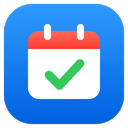
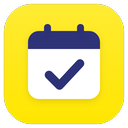
v1.2.0: "Colaborar" no rodapé com tela própria do QR Pix e ícone amarelo
- Remove a seção Colaborar da ajuda
- Link "♥ Colaborar" ao lado da versão abre a tela com QR e copia e cola
- Ícone novo em amarelo (#FFE600) com calendário azul-marinho

diff --git a/popup.html b/popup.html
@@ -221,7 +221,11 @@
   }
   .toast.show { transform: translate(-50%, 0); opacity: 1; }
 
-  footer { display: flex; justify-content: center; color: var(--text-3); font-size: 11px; padding: 0 0 14px; }
+  footer { display: flex; justify-content: center; align-items: center; gap: 6px; color: var(--text-3); font-size: 11px; padding: 0 0 14px; }
+  footer .sep { opacity: .6; }
+  .donate-link { font-size: 11px; color: var(--text-2); font-weight: 500; }
+  .donate-link:hover { color: var(--accent); }
+  .donate-link .heart { color: #ff2d55; }
 
   .collapsed { display: none; }
 
@@ -287,7 +291,7 @@
 
 <section class="sheet" id="help" aria-hidden="true" aria-label="Como usar">
   <div class="titlebar sheet-bar">
-    <div><button class="back" id="helpBack">‹ Voltar</button></div>
+    <div><button class="back" id="helpBack" data-close>‹ Voltar</button></div>
     <div class="title">Como usar</div>
     <div></div>
   </div>
@@ -335,8 +339,16 @@
     <div class="group prose">
       <p>Abra <b>Registro → Copiar técnico</b> e envie o texto em uma <a href="#" data-open="https://github.com/GustavoCavalheiro/vagas-full/issues">issue no GitHub</a>. Apague dados pessoais antes.</p>
     </div>
-
-    <div class="section-head"><span>Colaborar</span></div>
+  </div>
+</section>
+<section class="sheet" id="donate" aria-hidden="true" aria-label="Colaborar">
+  <div class="titlebar sheet-bar">
+    <div><button class="back" data-close>‹ Voltar</button></div>
+    <div class="title">Colaborar</div>
+    <div></div>
+  </div>
+  <div class="sheet-body">
+    <div class="section-head"><span>Pix</span></div>
     <div class="group">
       <div class="prose"><p>A Vagas Full é gratuita. Se ela te ajudou, considere apoiar o projeto com um Pix de qualquer valor.</p></div>
       <div class="qr-wrap"><div class="qr-box"><svg class="qr" role="img" aria-label="QR code Pix" xmlns="http://www.w3.org/2000/svg" viewBox="0 0 37 37" shape-rendering="crispEdges"><path stroke="#000000" d="M0 0.5h7m1 0h2m4 0h1m1 0h1m2 0h2m1 0h3m1 0h1m1 0h1m1 0h7M0 1.5h1m5 0h1m4 0h3m1 0h2m1 0h1m1 0h1m4 0h1m1 0h1m2 0h1m5 0h1M0 2.5h1m1 0h3m1 0h1m1 0h1m6 0h1m2 0h5m2 0h1m1 0h2m1 0h1m1 0h3m1 0h1M0 3.5h1m1 0h3m1 0h1m2 0h1m1 0h1m2 0h1m1 0h1m5 0h2m3 0h2m1 0h1m1 0h3m1 0h1M0 4.5h1m1 0h3m1 0h1m3 0h1m7 0h8m2 0h1m1 0h1m1 0h3m1 0h1M0 5.5h1m5 0h1m1 0h2m2 0h2m1 0h1m1 0h2m1 0h1m1 0h1m3 0h3m1 0h1m5 0h1M0 6.5h7m1 0h1m1 0h1m1 0h1m1 0h1m1 0h1m1 0h1m1 0h1m1 0h1m1 0h1m1 0h1m1 0h1m1 0h7M11 7.5h2m1 0h1m2 0h1m6 0h5M0 8.5h1m1 0h1m3 0h2m1 0h3m1 0h1m3 0h1m1 0h3m2 0h4m3 0h1m2 0h1m1 0h1M0 9.5h1m1 0h2m3 0h1m2 0h5m5 0h1m2 0h2m3 0h1m1 0h1m5 0h1M2 10.5h5m1 0h2m1 0h5m1 0h2m1 0h2m2 0h1m2 0h1m1 0h8M0 11.5h3m4 0h2m4 0h2m4 0h2m2 0h1m2 0h1m1 0h1m1 0h1m1 0h2m1 0h2M1 12.5h1m1 0h4m2 0h1m2 0h4m1 0h2m1 0h3m3 0h2m1 0h2m3 0h3M0 13.5h1m2 0h1m3 0h1m1 0h2m1 0h2m1 0h1m4 0h1m2 0h1m2 0h2m3 0h1m1 0h1m2 0h1M0 14.5h2m4 0h2m2 0h3m3 0h6m2 0h1m1 0h1m4 0h5M0 15.5h2m2 0h2m1 0h1m1 0h1m1 0h1m1 0h1m4 0h1m5 0h1m2 0h1m1 0h2m5 0h1M4 16.5h8m1 0h1m1 0h4m1 0h2m1 0h2m2 0h1m1 0h2m1 0h3M0 17.5h1m2 0h1m3 0h2m1 0h2m1 0h1m2 0h3m7 0h1m2 0h1m1 0h1m2 0h1M3 18.5h1m2 0h2m3 0h3m2 0h1m1 0h4m2 0h5m1 0h3m2 0h2M3 19.5h3m1 0h1m2 0h1m1 0h1m1 0h4m3 0h2m3 0h1m1 0h3m2 0h1M1 20.5h1m3 0h3m2 0h1m1 0h1m4 0h7m2 0h2m1 0h2m3 0h3M4 21.5h2m2 0h2m1 0h1m1 0h1m3 0h2m1 0h1m2 0h1m1 0h3m1 0h2m1 0h1m1 0h1M0 22.5h1m2 0h2m1 0h2m5 0h1m1 0h1m5 0h5m1 0h1m1 0h1m1 0h3m1 0h2M0 23.5h3m6 0h1m3 0h2m2 0h1m1 0h1m7 0h2m2 0h1m3 0h1M1 24.5h1m3 0h2m1 0h3m3 0h2m1 0h1m2 0h1m1 0h1m2 0h3m1 0h1m2 0h1m3 0h1M2 25.5h2m1 0h1m2 0h1m1 0h1m3 0h1m4 0h3m1 0h2m2 0h2m4 0h2M0 26.5h4m2 0h4m1 0h1m3 0h1m3 0h1m3 0h8m1 0h1m2 0h2M2 27.5h2m3 0h2m3 0h1m4 0h4m3 0h3m2 0h1m1 0h1m1 0h1m1 0h1M0 28.5h5m1 0h3m1 0h7m4 0h2m3 0h7m1 0h1m1 0h1M8 29.5h1m3 0h1m2 0h1m2 0h1m1 0h1m1 0h2m1 0h4m3 0h2M0 30.5h7m1 0h3m1 0h2m1 0h9m2 0h3m1 0h1m1 0h5M0 31.5h1m5 0h1m2 0h1m2 0h2m1 0h1m2 0h1m1 0h2m1 0h2m1 0h1m1 0h1m3 0h4M0 32.5h1m1 0h3m1 0h1m2 0h1m5 0h4m4 0h3m1 0h6m1 0h2M0 33.5h1m1 0h3m1 0h1m2 0h4m3 0h4m1 0h1m1 0h2m2 0h1m3 0h3M0 34.5h1m1 0h3m1 0h1m1 0h2m2 0h2m2 0h1m1 0h2m2 0h1m1 0h4m4 0h2m1 0h2M0 35.5h1m5 0h1m3 0h2m1 0h4m1 0h5m1 0h1m1 0h1m2 0h1m3 0h3M0 36.5h7m1 0h1m1 0h1m1 0h2m3 0h1m1 0h1m2 0h2m1 0h4m2 0h2m1 0h3"/></svg></div><p class="qr-hint">Aponte a câmera do app do seu banco</p></div>
@@ -407,7 +419,7 @@
     <div class="group log" id="log"><div class="empty">Vazio</div></div>
   </details>
 </main>
-<footer id="ver"></footer>
+<footer><span id="ver"></span><span class="sep">·</span><button class="link donate-link" id="donateBtn"><span class="heart">♥</span> Colaborar</button></footer>
 <div class="toast" id="toast" role="status"></div>
 <script src="popup.js"></script>
 </body>

diff --git a/popup.js b/popup.js
@@ -25,15 +25,24 @@ $('lMin').onclick = () => $('newSection').classList.toggle('collapsed');
 $('lMax').onclick = () => { chrome.tabs.create({ url: chrome.runtime.getURL('popup.html?tab=1') }); window.close(); };
 window.addEventListener('scroll', () => $('titlebar').classList.toggle('scrolled', scrollY > 4), { passive: true });
 
-// ---------- ajuda ----------
-function setHelp(open) {
-  $('help').classList.toggle('open', open);
-  $('help').setAttribute('aria-hidden', String(!open));
-  if (open) { $('help').scrollTop = 0; $('helpBack').focus({ preventScroll: true }); } else $('helpBtn').focus({ preventScroll: true });
+// ---------- telas deslizantes (ajuda e colaborar) ----------
+let sheetOpener = null;
+function openSheet(id, opener) {
+  const s = $(id);
+  sheetOpener = opener;
+  s.classList.add('open');
+  s.setAttribute('aria-hidden', 'false');
+  s.scrollTop = 0;
+  s.querySelector('[data-close]').focus({ preventScroll: true });
 }
-$('helpBtn').onclick = () => setHelp(true);
-$('helpBack').onclick = () => setHelp(false);
-document.addEventListener('keydown', (e) => { if (e.key === 'Escape' && $('help').classList.contains('open')) setHelp(false); });
+function closeSheets() {
+  document.querySelectorAll('.sheet.open').forEach((s) => { s.classList.remove('open'); s.setAttribute('aria-hidden', 'true'); });
+  if (sheetOpener) sheetOpener.focus({ preventScroll: true });
+}
+$('helpBtn').onclick = () => openSheet('help', $('helpBtn'));
+$('donateBtn').onclick = () => openSheet('donate', $('donateBtn'));
+document.querySelectorAll('[data-close]').forEach((b) => b.addEventListener('click', closeSheets));
+document.addEventListener('keydown', (e) => { if (e.key === 'Escape' && document.querySelector('.sheet.open')) closeSheets(); });
 $('help').addEventListener('click', (e) => {
   const a = e.target.closest('a[data-open]');
   if (a) { e.preventDefault(); chrome.tabs.create({ url: a.dataset.open }); }
